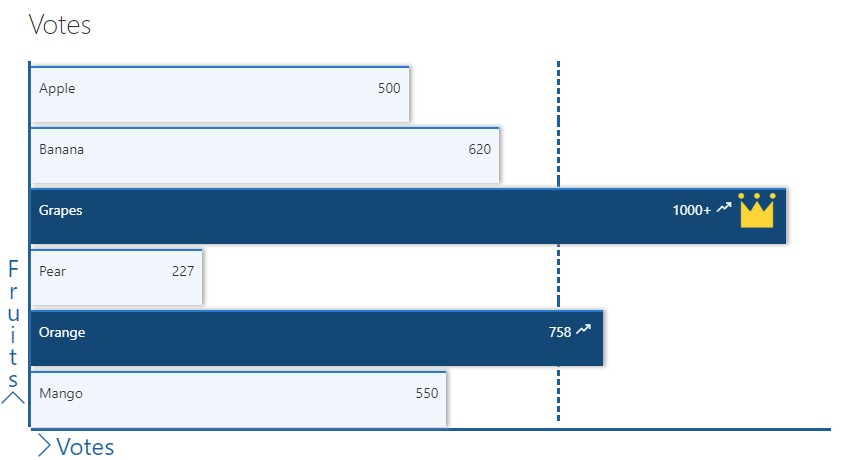
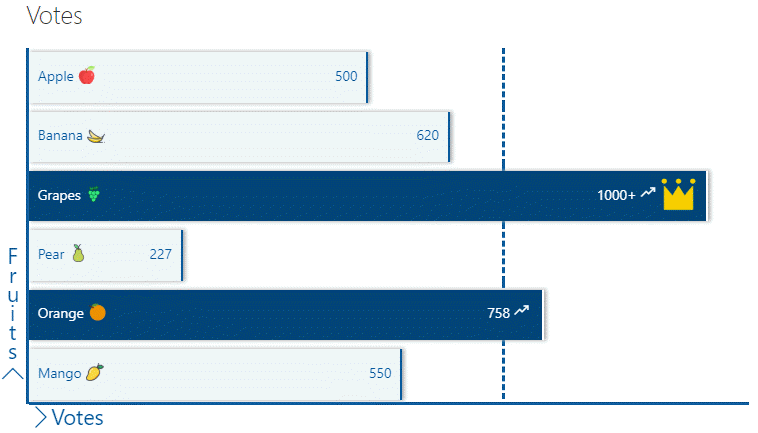
Minor updates

Changed region(s): [[0.0, 0.1201, 0.9406, 0.9908], [0.0303, 0.0, 0.1214, 0.0901]]

diff --git a/view-samples/bar-graph-format/README.md b/view-samples/bar-graph-format/README.md
@@ -26,6 +26,7 @@ The sample features the following:
 |Number|Votes||
 |Yes/No|IsLastItem||
 |Yes/No|IsHighest||
+|Single line of text|Icon||
 
 ## Setup
 
@@ -35,7 +36,7 @@ The sample needs the following setup:
 
 The idea is that this data gets populated via some code so that it can represented as a graph.
 
-In the sample, the height of the parent div is set to 800px and the child div calculates heights. The heights are calcuated considering 1000 as the max number of views. If this number needs changed, please update the formulas in lines 49 and 103 accordingly.
+In the sample, the height of the parent div is set to 800px and the child div calculates heights. The heights are calcuated considering 1000 as the max number of views. If this number needs changed, please update the formulas in lines 50 and 103 accordingly.
 
 ## Sample
 
